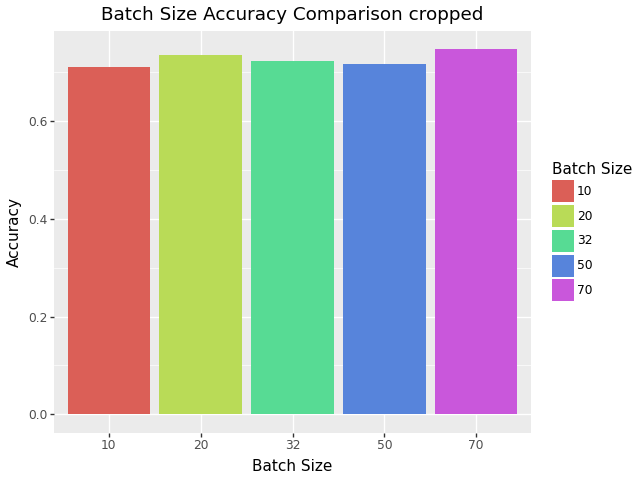
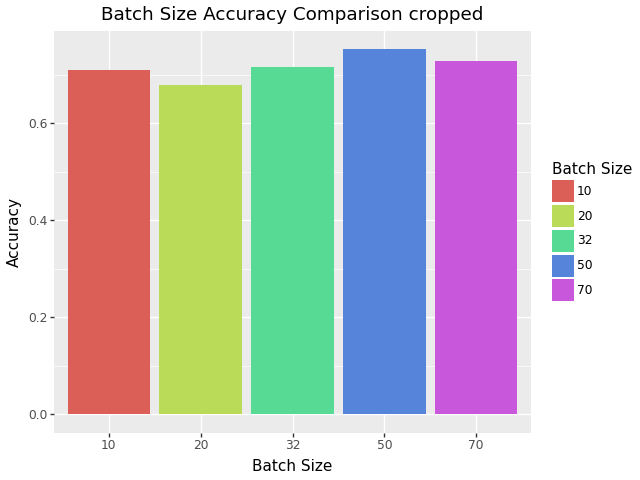
more changes

Changed region(s): [[0.0938, 0.0938, 0.8125, 0.1875], [0.0312, 0.4375, 0.0938, 0.4688], [0.0312, 0.25, 0.0938, 0.2812]]

diff --git a/origa_processing.py b/origa_processing.py
@@ -11,7 +11,7 @@ import PIL.Image
 import pprint
 from plotnine import *
 
-itype = "square"
+itype = "cropped"
 
 directory = "ORIGA_" + itype + "_sorted"
 batch_size = 32
@@ -19,52 +19,6 @@ seed = 1234
 split = 0.25
 hct = 10
 lr = 0.0001
-
-# Scale images
-
-def scale(data):
-
-    # testing_X = np.empty([batch_ct * batch_size, 4])
-    # testing_y = np.empty([batch_ct * batch_size, 1])
-
-    # iterator = next(iter(data))
-    # batch_ct = len(data)
-
-
-
-    # tx = np.empty([batch_ct * batch_size, 4])
-    # ty = np.empty([batch_ct * batch_size, 1])
-    # for i in range(batch_ct):
-    #     for x, y in iterator:
-    #         # print(x.numpy().shape, "\n\n")
-    #         np.append(tx, x.numpy())
-    #         #training_X.np.append(x.numpy())
-    #         np.append(ty, y.numpy())
-    #         #training_y.append(y.numpy())
-
-    #     # for x, y in iterator:
-    #     #     np.append(testing_X, x.numpy())
-    #     #     # testing_X.append(x.numpy())
-    #     #     np.append(testing_y, y.numpy())
-    #     #     # testing_y.append(y.numpy())
-    # iterator = next(iter(data))
-
-    # training_X = data[0].map(lambda x,y: (x/255, y))
-    # training_y = data[0].map(lambda x, y: y)
-    
-    # testing_X = data[1].map(lambda x,y: (x/255, y))
-    # testing_y = data[1].map(lambda x, y: y) 
-
-    for x, y in data[0]:
-        training_X = x/255
-        training_y = y
-    for x, y in data[1]:
-        testing_X = x/255
-        testing_y = y
-
-    
-    return training_X, training_y, testing_X, testing_y
-
 
 
 # for i in [0, 1]:
@@ -89,54 +43,6 @@ def show_imgs(data):
 # print(data[0].class_names)
 
 
-def create_model(num_classes):
-    model = tf.keras.Sequential([
-    tf.keras.layers.Rescaling(1./255),
-    tf.keras.layers.Conv2D(32, 3, activation='relu'),
-    tf.keras.layers.MaxPooling2D(),
-    tf.keras.layers.Conv2D(32, 3, activation='relu'),
-    tf.keras.layers.MaxPooling2D(),
-    tf.keras.layers.Conv2D(32, 3, activation='relu'),
-    tf.keras.layers.MaxPooling2D(),
-    tf.keras.layers.Flatten(),
-    tf.keras.layers.Dense(128, activation='relu'),
-    tf.keras.layers.Dense(num_classes)
-    ])
-
-    model.compile(
-    optimizer='adam',
-    loss=tf.keras.losses.SparseCategoricalCrossentropy(from_logits=True),
-    metrics=['accuracy'])
-
-    return model
-
-def train_model(model, training, testing, epochs):
-    csv_fname  = "epoch_log.csv"
-
-    csv_logger = tf.keras.callbacks.CSVLogger(csv_fname)
-
-    model.fit(
-        training,
-        validation_data=testing,
-        epochs=epochs, 
-        callbacks=[csv_logger]
-    )
-
-def train_network(network, training_X, training_y, epochs):
-    # create the algorithm that learns the weight of the network (with a learning rate of 0.0001)
-    optimizer = tf.keras.optimizers.Adam(learning_rate=0.0001)
-    
-    # create the loss function function that tells optimizer how much error it has in its predictions
-    loss_function = tf.keras.losses.SparseCategoricalCrossentropy(from_logits=True)
-    
-    # prepare the network for training
-    network.compile(optimizer=optimizer, loss=loss_function, metrics=["accuracy"])
-    
-    # create a logger to save the training details to file
-    csv_logger = tf.keras.callbacks.CSVLogger('epochs.csv')
-    
-    # train the network for 20 epochs (setting aside 20% of the training data as validation data)
-    network.fit(training_X, training_y, validation_split=0.2, epochs=epochs, callbacks=[csv_logger])
 
 
 def create_cnn():
@@ -235,9 +141,20 @@ def compare_batch_size():
 
 
 #Plot accuracies comparing batch size
-bs_comp_df = pd.read_csv("batch_size_comparison_ORIGA_" + itype + ".csv")
-bs_comp_df["Batch Size"] = bs_comp_df["Batch Size"].astype(str)
-plot_bars(bs_comp_df, "Batch Size", "Accuracy", "Batch Size", "Batch Size Accuracy Comparison " + itype,  "bs_comparison_" + itype + ".png" )
+# bs_comp_df = pd.read_csv("batch_size_comparison_ORIGA_" + itype + ".csv")
+# print(bs_comp_df)
+# bs_comp_df["Batch Size"] = bs_comp_df["Batch Size"].astype(str)
+# plot_bars(bs_comp_df, "Batch Size", "Accuracy", "Batch Size", "Batch Size Accuracy Comparison " + itype,  "bs_comparison_" + itype + ".png" )
+
+
+
+
+# Create CSV of compared learning rates
+# n =create_cnn()
+# accs = compare_lrs(n, data)
+# accs_df = pd.DataFrame.from_dict(accs, orient='index')
+# accs_df.to_csv("origa_lr_accuracies.csv")
+
 
 # Single Run
 # data = tf.keras.utils.image_dataset_from_directory(
@@ -255,16 +172,6 @@ plot_bars(bs_comp_df, "Batch Size", "Accuracy", "Batch Size", "Batch Size Accura
 # history = train_cnn(n, data, 100, 0.001)
 # test_loss, test_acc = n.evaluate(data[1], verbose=2)
 # print(test_acc)
-
-
-# Create CSV of compared learning rates
-# n =create_cnn()
-# accs = compare_lrs(n, data)
-# accs_df = pd.DataFrame.from_dict(accs, orient='index')
-# accs_df.to_csv("origa_lr_accuracies.csv")
-
-
-
 
 # Plot the learning rate CSV
 # lr_comp_df = pd.read_csv("origa_accuracies.csv")
